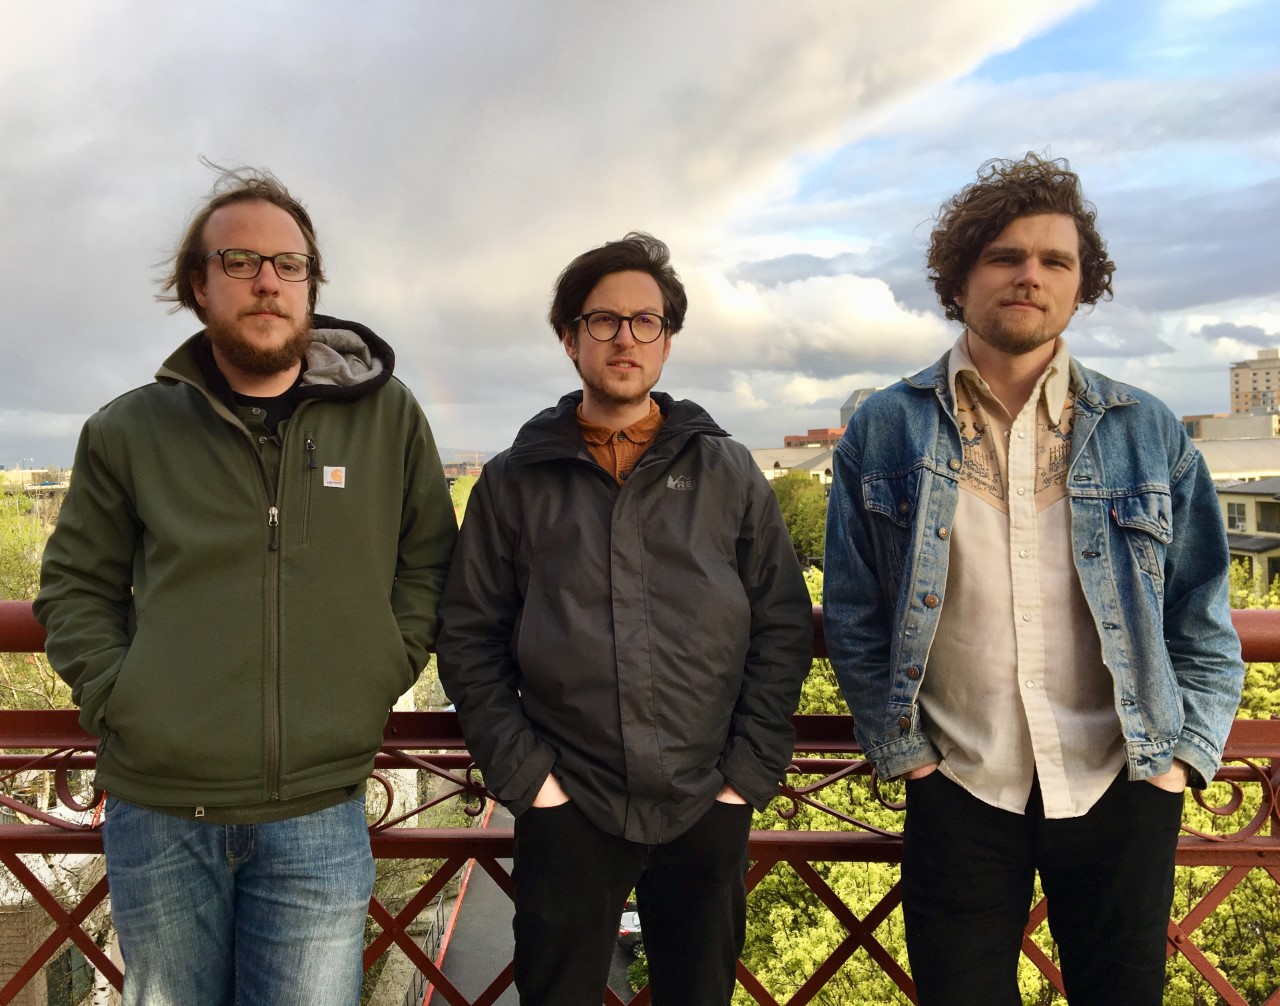
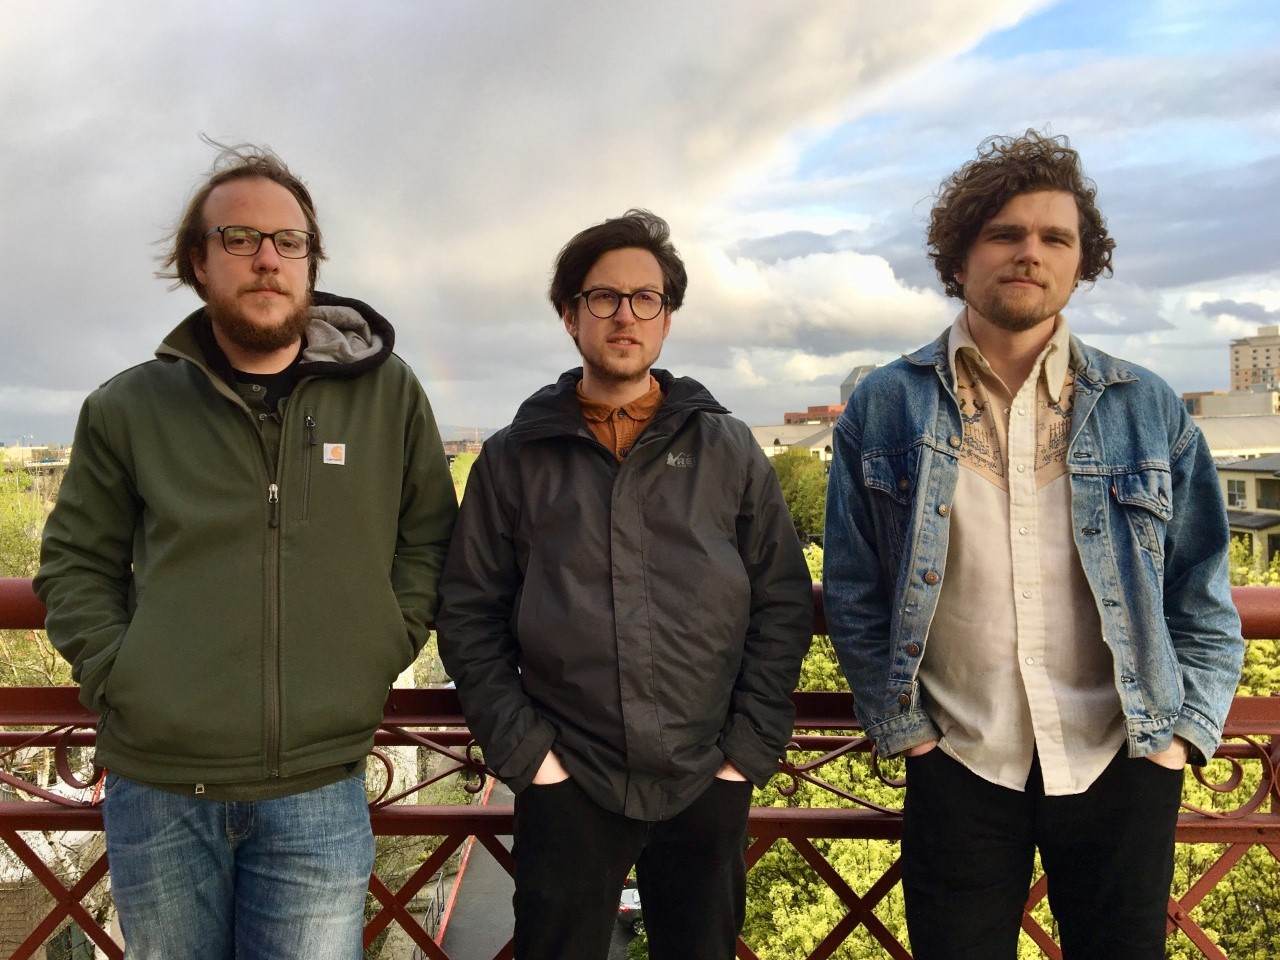
added carousel

diff --git a/June19index.html b/June19index.html
@@ -50,10 +50,10 @@
         }
 
         .carousel-inner img {
-            -webkit-filter: grayscale(30%);
-            filter: grayscale(30%);
+            -webkit-filter: grayscale(90%);
+            filter: grayscale(90%);
             /* make all photos black and white */
-            width: 60%;
+            width: 100%;
             /* Set width to 100% */
             margin: auto;
         }
@@ -333,7 +333,7 @@
         </div>
     </div>
 
-    <!-- Container (TOUR Section) 
+    <!-- Container (TOUR Section) -->
     <div id="artists" class="bg-2">
         <div class="container text-center">
             <h3 class="text-center">Artists</h3>
@@ -345,15 +345,15 @@
                     <p>Optimistically apocalyptic music with surfing rhythmic waves of friendship & good vibes, in the face of a dying universe.</p>
 
                 </div>
-                <!-- /.col-lg-4  
+                <!-- /.col-lg-4 -->
 
                 <div class="col-lg-2"></div>
             </div>
-            <!-- /.row  
+            <!-- /.row -->
         </div>
 
     </div>
-    -->
+    
         <div id="myCarousel" class="carousel slide" data-ride="carousel">
     <!-- Indicators  -->
     <ol class="carousel-indicators">
@@ -363,20 +363,20 @@
     </ol>
 
     <!-- Wrapper for slides -->
-    <div id="artists" class="carousel-inner" role="listbox">
+    <div class="carousel-inner" role="listbox">
       <div class="item active">
-        <img src="comradefran.jpg" alt="Generic placeholder image" width="400" height="300">
+        <img src="ny.jpg" alt="New York" width="1200" height="700">
         <div class="carousel-caption">
-            <a href="http://www.comradefran.com/">  <h2>Comrade Fran</h2></a>
-          <p>Optimistically apocalyptic music with surfing rhythmic waves of friendship & good vibes, in the face of a dying universe.</p>
+          <h3>New York</h3>
+          <p>The atmosphere in New York is lorem ipsum.</p>
         </div>      
       </div>
 
       <div class="item">
-        <img src="SKC.jpg" alt="Chicago" width="1200" height="700">
+        <img src="chicago.jpg" alt="Chicago" width="1200" height="700">
         <div class="carousel-caption">
-          <h2>Soul Kitchen Chef</h2>
-          <p>Breakfast scrambles. Brioche. Shortribs and Avocado Toast. NO Peanuts Please.</p>
+          <h3>Chicago</h3>
+          <p>Thank you, Chicago - A night we won't forget.</p>
         </div>      
       </div>
     
